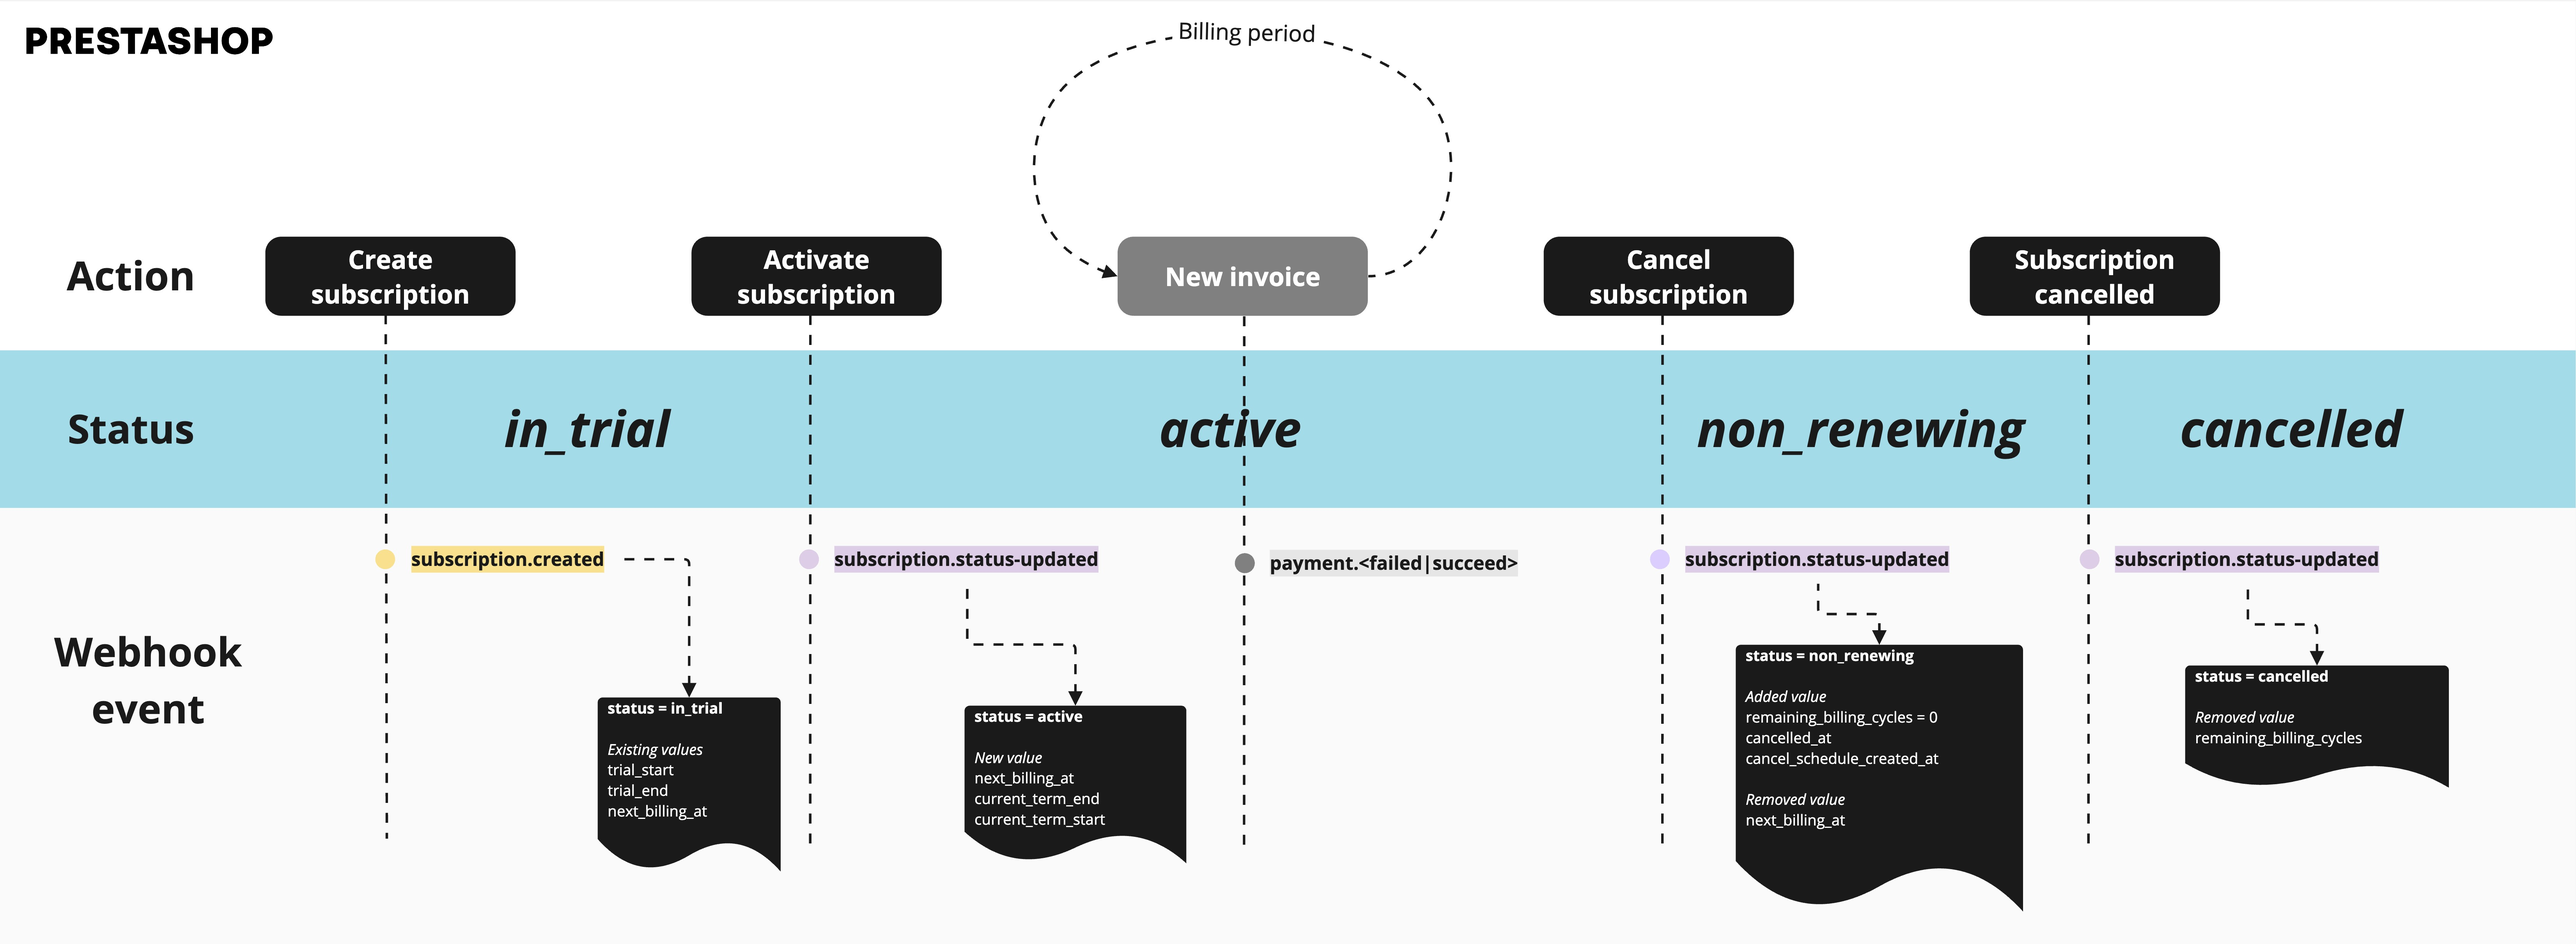
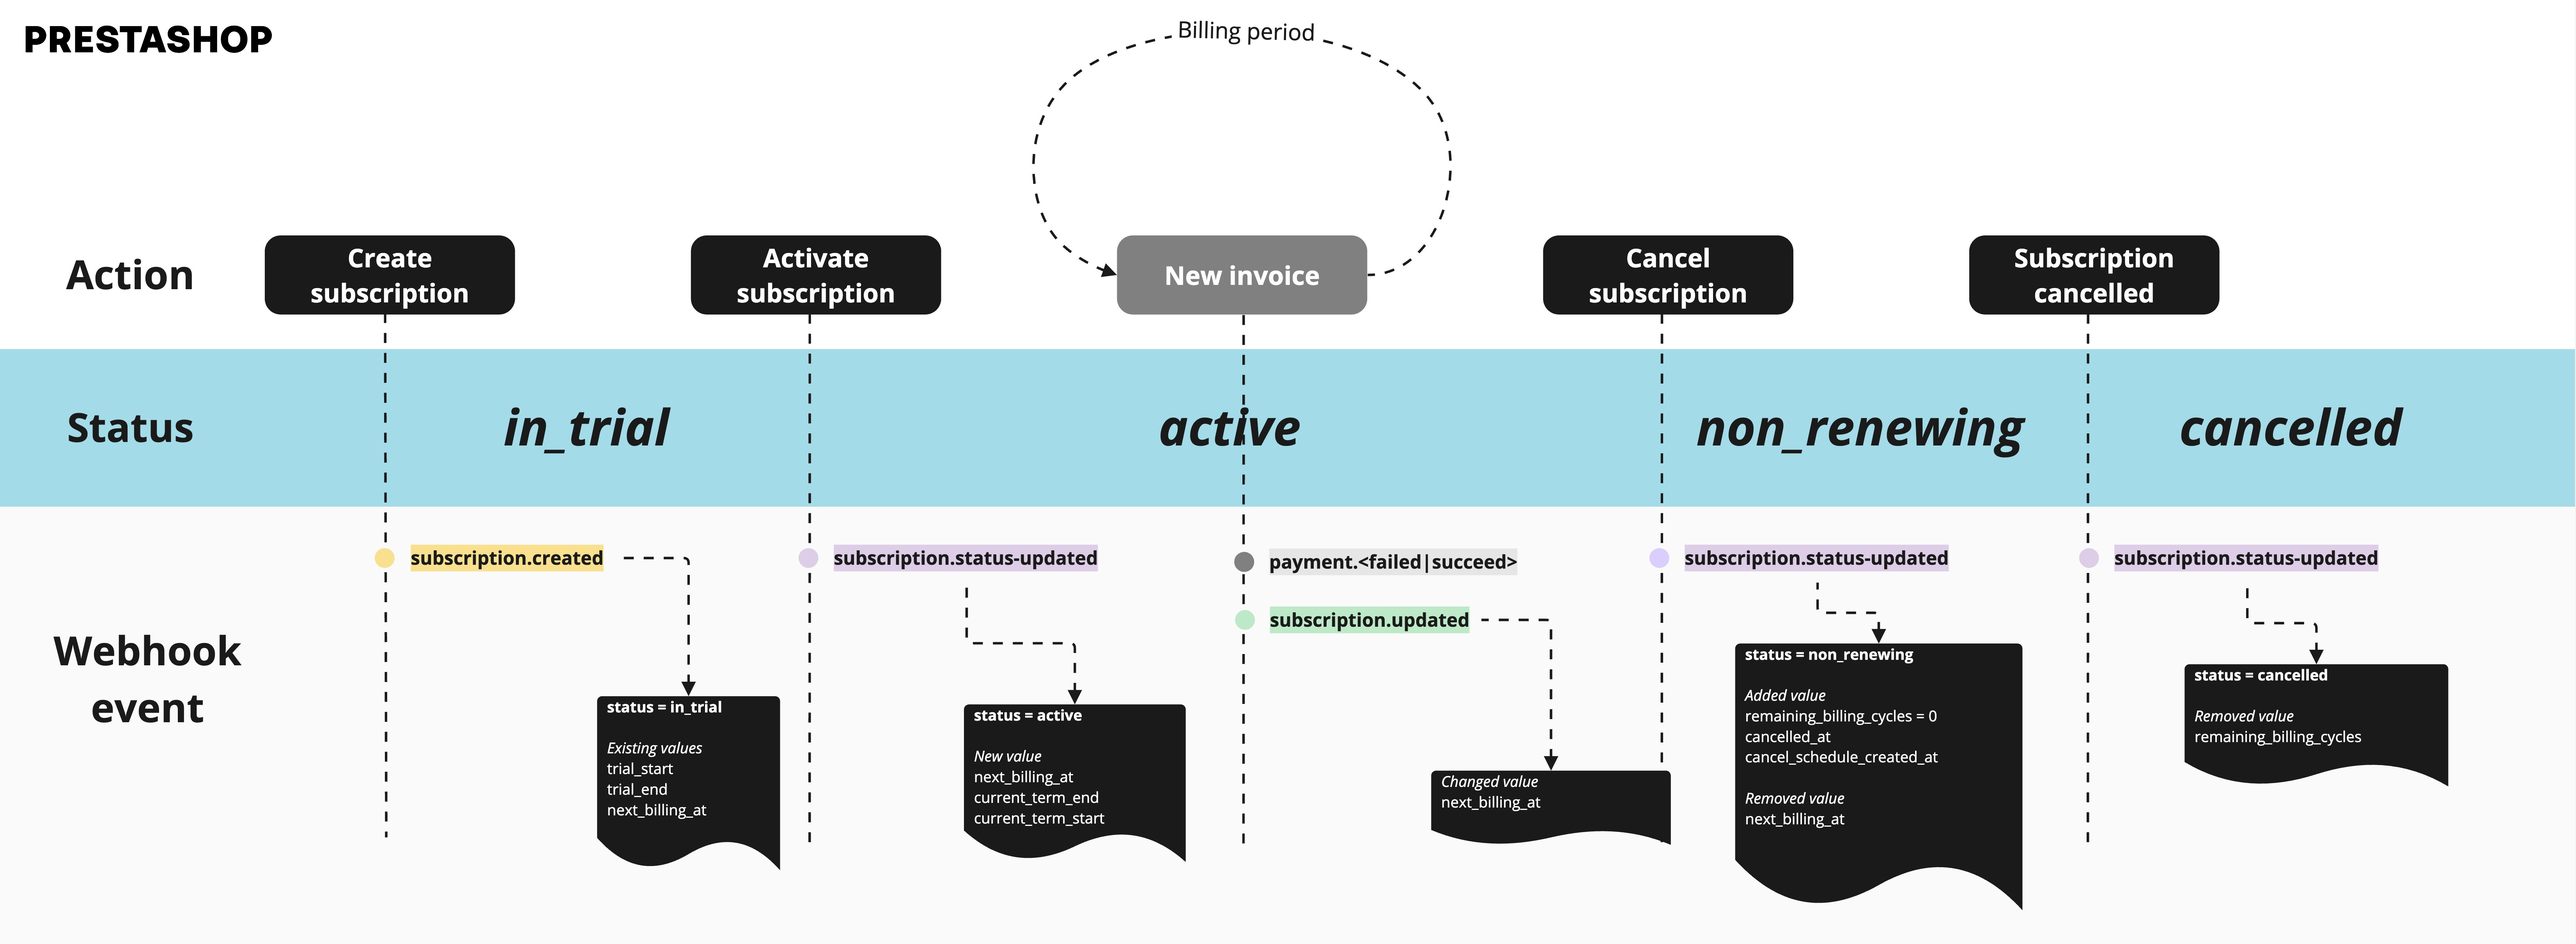
feat(OFF-1016): add new webhook event subscription renewed

diff --git a/docs/src/5-prestashop-billing/6-references/1-webhook/README.md b/docs/src/5-prestashop-billing/6-references/1-webhook/README.md
@@ -68,7 +68,9 @@ Here is an exhaustive list of events triggered.
 ### Subscription
 
 - `subscription.created` - Triggered when a subscription is created.
-- `subscription.updated` - Triggered when a subscription is updated. A plan upgrade will trigger this event.
+- `subscription.updated` - Triggered when a subscription is updated.\
+  A plan upgrade will trigger this event.\
+  A subscription renew will trigger this event.
 - `subscription.status-updated` - Triggered when a subscription's status changes.
 
 #### Difference between `subscription.updated` and `subscription.status-updated`
@@ -79,6 +81,14 @@ If a subscription is changed, the `subscription.updated` event will be sent but 
 
 :::warning
 To track the subscription status changes, use `subscription.status-updated`, and not `subscription.updated`.
+:::
+
+#### Next invoice
+
+You can listen to `subscription.updated` to get the date of the next invoice since this event is triggered when a subscription is renewed.
+
+:::tip
+It's useful for stairstep, usage-based and charge at term pricing models
 :::
 
 All the subscription event data have the following structure:

diff --git a/docs/src/5-prestashop-billing/5-use-cases/3-usage-based/README.md b/docs/src/5-prestashop-billing/5-use-cases/3-usage-based/README.md
@@ -9,6 +9,10 @@ A video conferencing SaaS applies usage-based pricing for its business customers
 More details about Usage-Based API are [available here](https://prestashop-billing.stoplight.io/docs/api-gateway/896ba54736b77-add-an-usage-to-a-subscription-item).
 :::
 
+:::tip
+If you're looking for getting the date of the next invoice it's useful to listen to [webhooks](../../6-references/1-webhook/README.md#subscription).
+:::
+
 :::tip Note
 Usage-Based can also be use together with [flat fee](../1-flat-fee/README.md).
 :::

diff --git a/docs/src/5-prestashop-billing/5-use-cases/4-charge-at-term/README.md b/docs/src/5-prestashop-billing/5-use-cases/4-charge-at-term/README.md
@@ -9,6 +9,10 @@ A shipping company applies charge at term pricing for its business customer. The
 More details about Charge at Term API are [available here](https://prestashop-billing.stoplight.io/docs/api-gateway/0dec9ae31dd59-add-a-charge-at-term).
 :::
 
+:::tip
+If you're looking for getting the date of the next invoice it's useful to listen to [webhooks](../../6-references/1-webhook/README.md#subscription).
+:::
+
 :::tip Note
 Charge at Term can also be use together with [flat fee](../1-flat-fee/README.md).
 :::

diff --git a/docs/src/5-prestashop-billing/5-use-cases/2-stair-step/README.md b/docs/src/5-prestashop-billing/5-use-cases/2-stair-step/README.md
@@ -8,3 +8,7 @@ An email marketing SaaS offers a stairstep pricing model with three tiers. The f
 :::tip
 If you're looking for the implementation of your Stairstep, follow this [tutorial](../../4-how-tos/1-stairstep/README.md).
 :::
+
+:::tip
+If you're looking for getting the date of the next invoice it's useful to listen to [webhooks](../../6-references/1-webhook/README.md#subscription).
+:::
